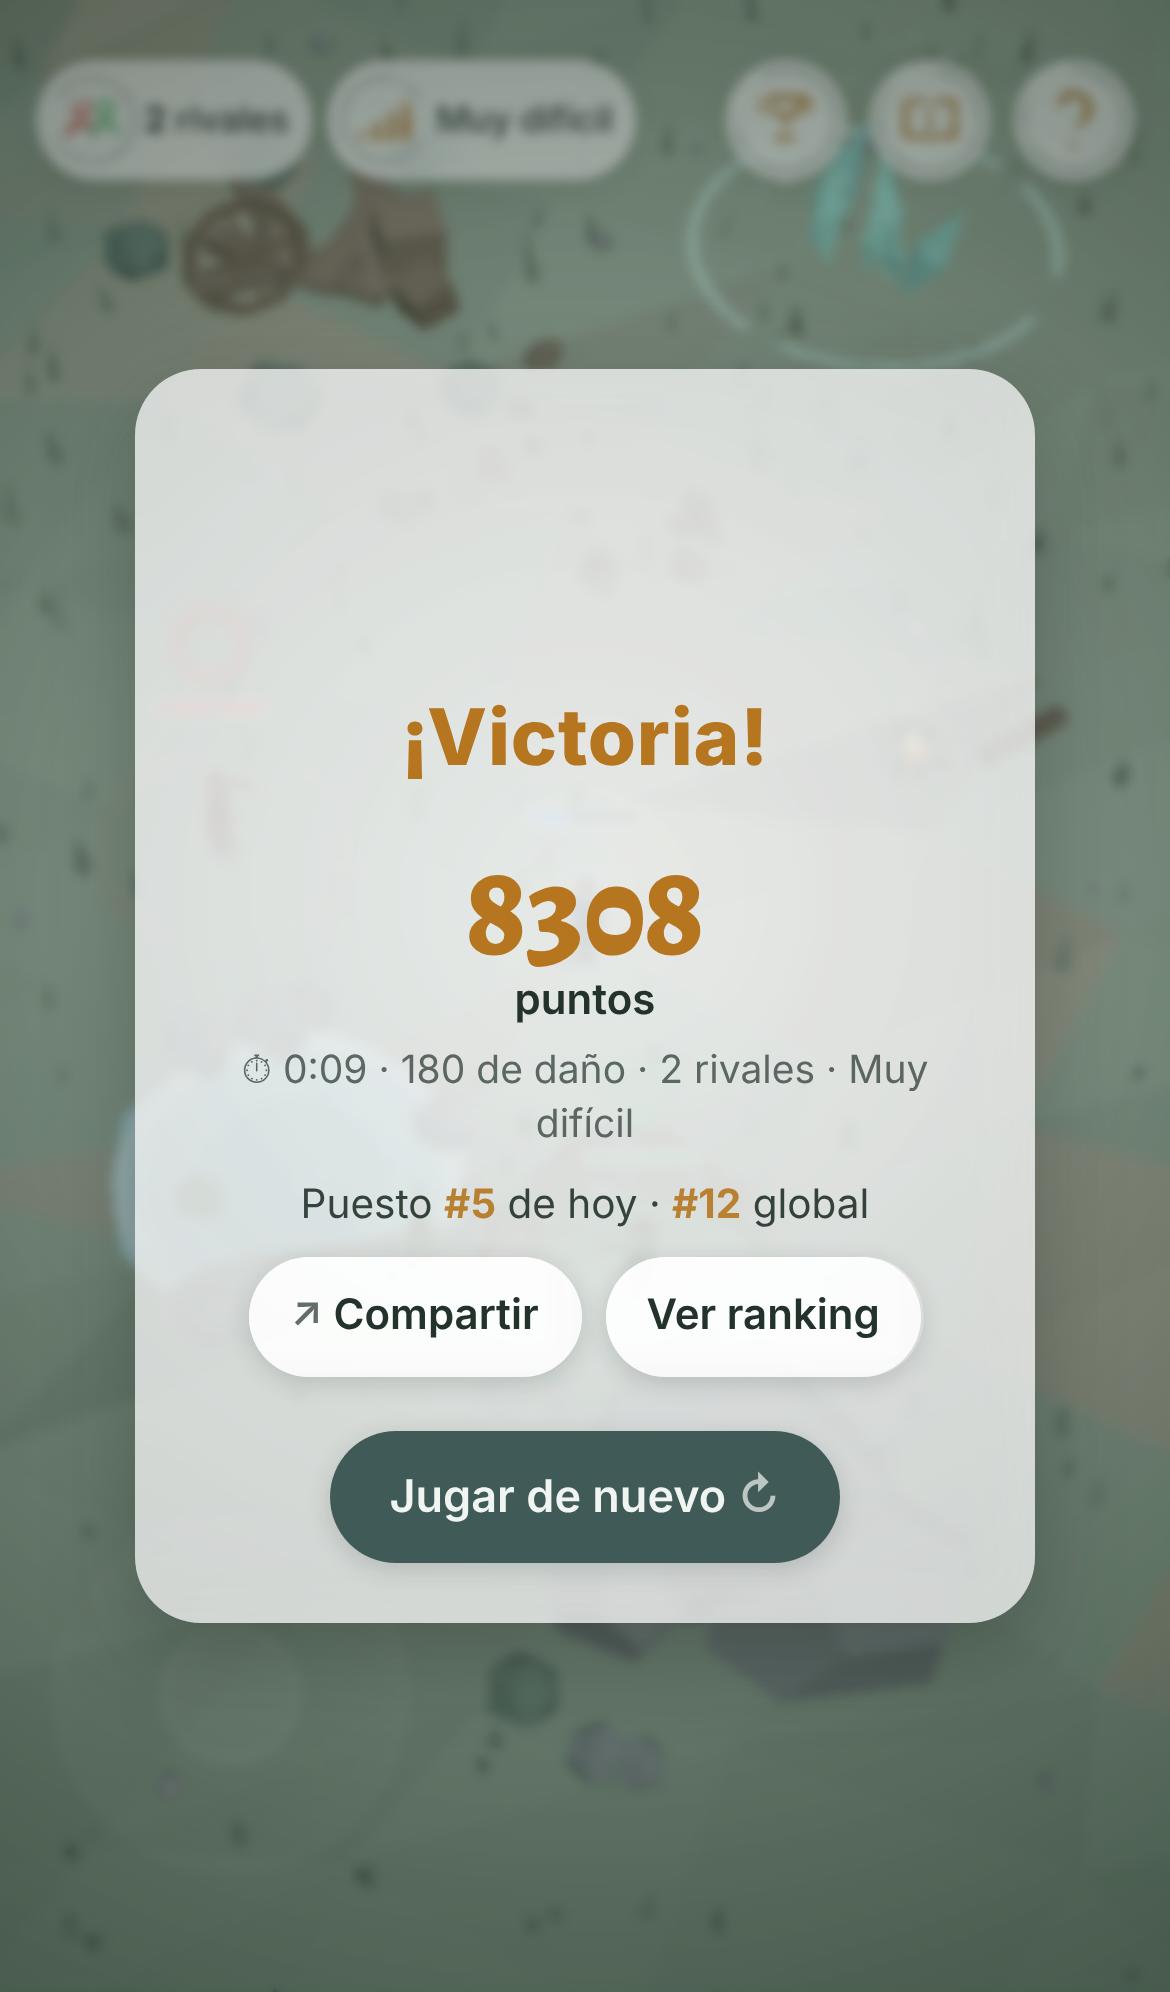
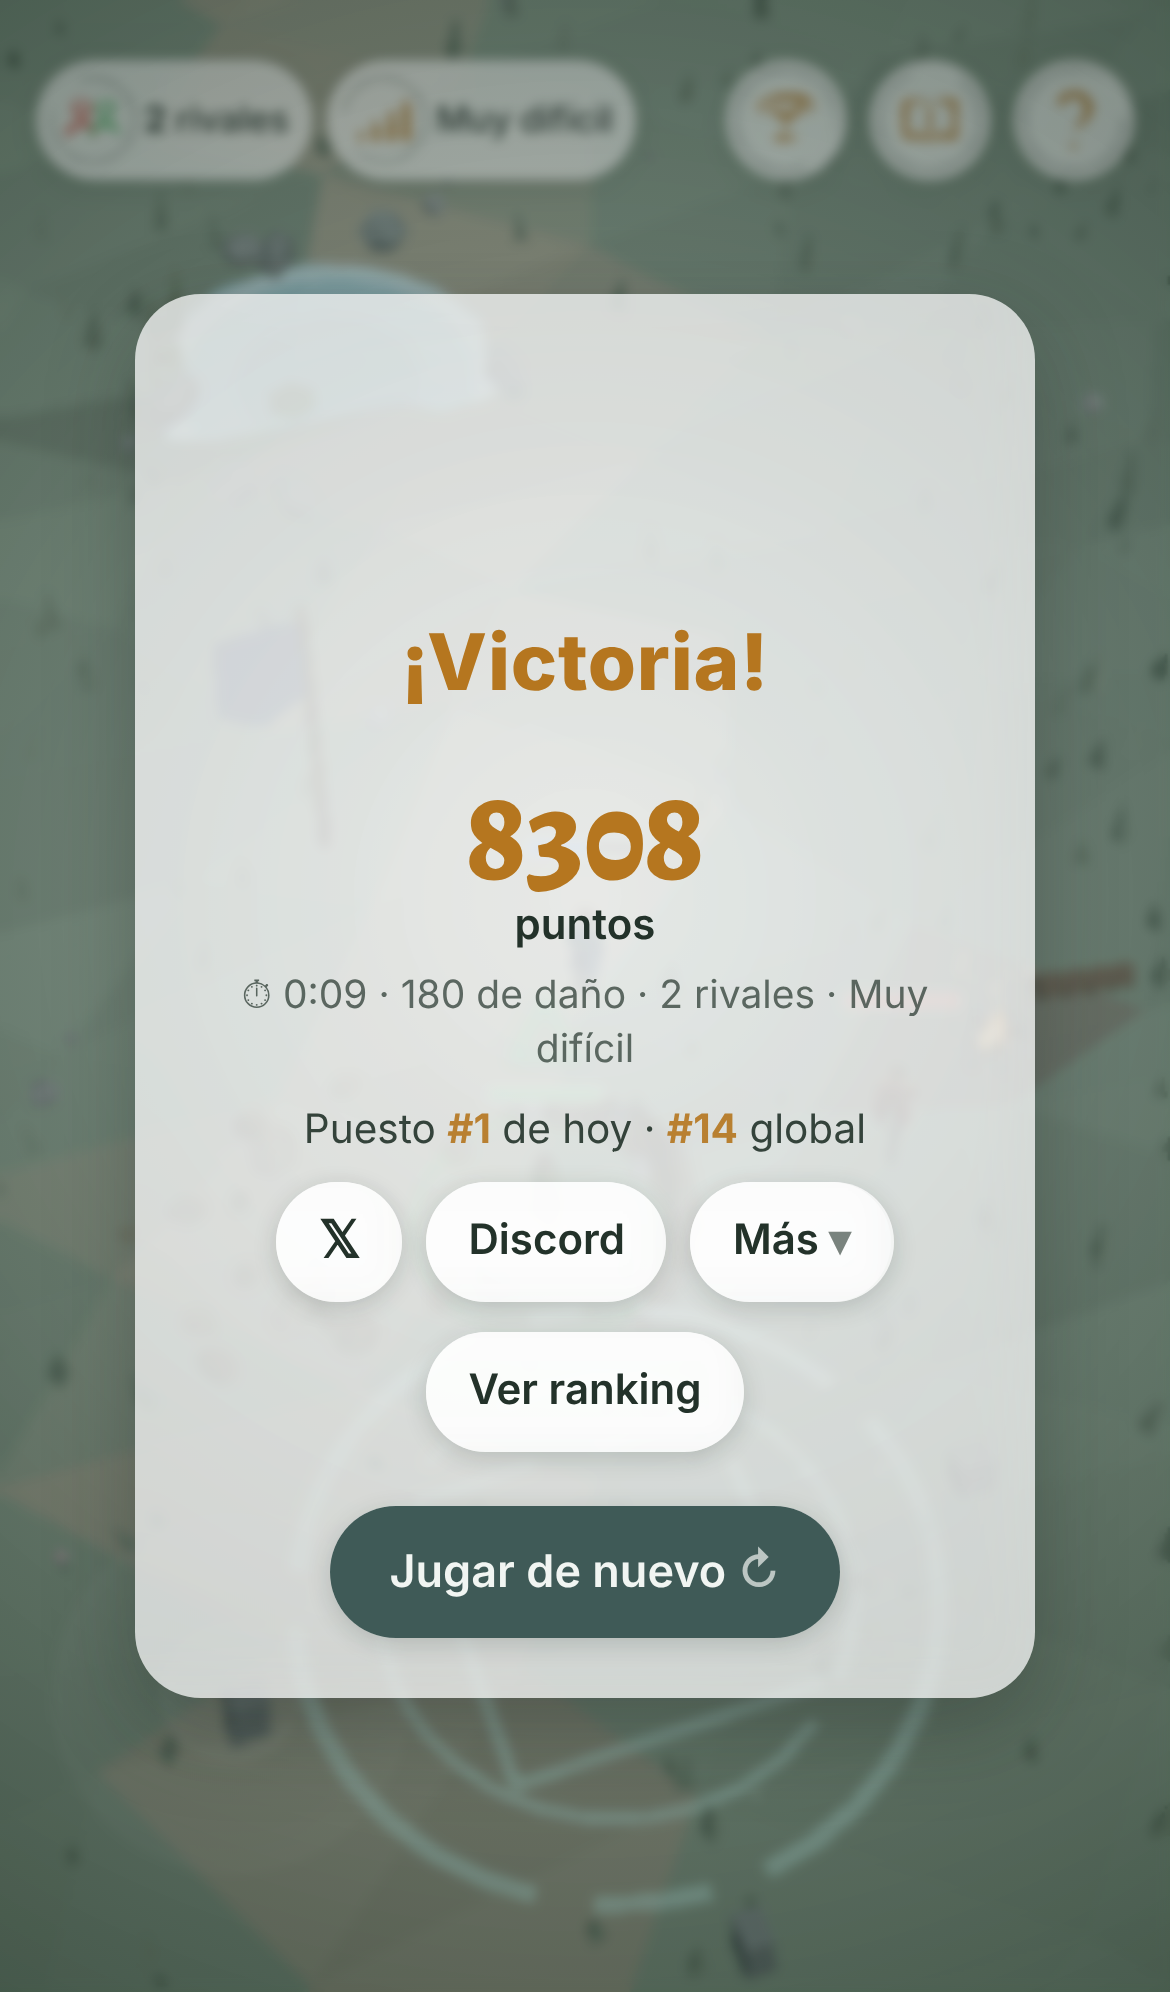
Share to X and Discord, with Bluesky, Threads and Mastodon under More
X, Bluesky, Threads and Mastodon open their compose page with the score text and link (Mastodon
asks for the player's server once and remembers it). Discord has no compose link, so it gets the
image: the share sheet on touch screens, the clipboard elsewhere, a download as a last resort.
More also has Save image.

Claude-Session: https://claude.ai/code/session_01WWzoGYPLa6yAXfs7maHJP8

diff --git a/src/leaderboard/ui.ts b/src/leaderboard/ui.ts
@@ -7,7 +7,7 @@ import { DIFFICULTY_LABEL, type Difficulty } from '../combat';
 import { LANG, t } from '../i18n';
 import { arc, random, segment, svg } from '../match';
 import { failed, fetchBoard, myScores, savedInitials, saveInitials, submitScore, type Entry, type Period, type Runs } from './client';
-import { renderShareCard, shareCard, type ShareData } from './share';
+import { mastodonHost, openComposer, renderShareCard, saveImage, savedMastodon, shareDiscord, type ShareData } from './share';
 import { cleanInitials, formatTime, scoreFor, validInitials } from './score';
 
 const esc = (s: string) => s.replace(/[&<>"']/g, (c) => `&#${c.charCodeAt(0)};`);
@@ -156,13 +156,29 @@ export function mountLeaderboard(): Leaderboard {
       `<input name="initials" maxlength="4" autocomplete="off" autocapitalize="characters" spellcheck="false" enterkeyhint="done" placeholder="ABCD" required></label>` +
       `<button type="submit" class="match-btn save"><span class="cap">${t.rank.save}</span></button></form>` +
       `<p class="note" role="status"></p>` +
-      `<div class="acts"><button type="button" class="match-btn share"><span class="cap">${t.rank.share}</span></button>` +
-      `<button type="button" class="match-btn view"><span class="cap">${t.rank.view}</span></button></div>`;
+      `<div class="acts" role="group" aria-label="${t.rank.share}">` +
+      `<button type="button" class="match-btn net" data-to="x"><span class="cap">𝕏</span></button>` +
+      `<button type="button" class="match-btn net" data-to="discord"><span class="cap">Discord</span></button>` +
+      `<button type="button" class="match-btn more" aria-expanded="false"><span class="cap">${t.rank.more}</span></button></div>` +
+      `<div class="more-menu" hidden>` +
+      `<button type="button" class="match-btn net" data-to="bluesky"><span class="cap">Bluesky</span></button>` +
+      `<button type="button" class="match-btn net" data-to="threads"><span class="cap">Threads</span></button>` +
+      `<button type="button" class="match-btn net" data-to="mastodon"><span class="cap">Mastodon</span></button>` +
+      `<button type="button" class="match-btn net" data-to="image"><span class="cap">${t.rank.saveImage}</span></button>` +
+      `<form class="masto" hidden novalidate><input name="host" autocomplete="off" autocapitalize="none" spellcheck="false" inputmode="url" enterkeyhint="go" placeholder="${t.rank.mastodonHost}" aria-label="${t.rank.mastodonHost}">` +
+      `<button type="submit" class="match-btn"><span class="cap">${t.rank.go}</span></button></form></div>` +
+      `<button type="button" class="match-btn view"><span class="cap">${t.rank.view}</span></button>`;
     const form = slot.querySelector<HTMLFormElement>('.sign')!;
     const input = form.querySelector<HTMLInputElement>('input')!;
     const save = form.querySelector<HTMLButtonElement>('.save')!;
     const note = slot.querySelector<HTMLElement>('.note')!;
-    const shareBtn = slot.querySelector<HTMLButtonElement>('.share')!;
+    const say = (text: string) => {
+      note.innerHTML = text;
+    };
+    const moreBtn = slot.querySelector<HTMLButtonElement>('.more')!;
+    const menu = slot.querySelector<HTMLElement>('.more-menu')!;
+    const masto = slot.querySelector<HTMLFormElement>('.masto')!;
+    const mastoInput = masto.querySelector<HTMLInputElement>('input')!;
     let newId: number | null = null;
     input.value = savedInitials();
     input.addEventListener('input', () => {
@@ -170,17 +186,40 @@ export function mountLeaderboard(): Leaderboard {
       if (clean !== input.value) input.value = clean;
     });
 
-    // Rendered ahead, so the share sheet opens straight from the tap (iOS wants it inside the gesture).
+    // Rendered ahead, so Discord's share sheet opens straight from the tap (iOS wants it inside the gesture).
     let card = renderShareCard(data);
-    shareBtn.addEventListener('click', async () => {
-      const result = await shareCard(await card, data);
-      if (result === 'saved') note.textContent = t.rank.saved;
+    moreBtn.addEventListener('click', () => {
+      menu.hidden = !menu.hidden;
+      moreBtn.setAttribute('aria-expanded', String(!menu.hidden));
     });
-    slot.querySelector('.view')!.addEventListener('click', () => show(newId ? 'today' : period, newId));
-
-    const say = (text: string) => {
-      note.innerHTML = text;
+    const mastodon = (raw: string) => {
+      const host = mastodonHost(raw);
+      if (!host) {
+        masto.hidden = false;
+        mastoInput.focus();
+        return;
+      }
+      masto.hidden = true;
+      openComposer('mastodon', data, host);
     };
+    masto.addEventListener('submit', (e) => {
+      e.preventDefault();
+      mastodon(mastoInput.value);
+    });
+    for (const btn of slot.querySelectorAll<HTMLButtonElement>('.net')) {
+      btn.addEventListener('click', async () => {
+        const to = btn.dataset.to;
+        if (to === 'x' || to === 'bluesky' || to === 'threads') openComposer(to, data);
+        else if (to === 'mastodon') mastodon(savedMastodon());
+        else if (to === 'image') await saveImage(card, data);
+        else if (to === 'discord') {
+          const result = await shareDiscord(card, data);
+          if (result === 'copied') say(t.rank.discordCopied);
+          if (result === 'saved') say(t.rank.discordSaved);
+        }
+      });
+    }
+    slot.querySelector('.view')!.addEventListener('click', () => show(newId ? 'today' : period, newId));
 
     void runs.current().then((id) => {
       if (!id && slot.isConnected) {
@@ -216,7 +255,7 @@ export function mountLeaderboard(): Leaderboard {
       say(t.rank.placed(res.rank.today, res.rank.all));
       Object.assign(data, { score: res.score, initials, rank: res.rank });
       card = renderShareCard(data);
-      shareBtn.focus({ preventScroll: true });
+      slot.querySelector<HTMLElement>('.net')!.focus({ preventScroll: true });
     });
   };
 

diff --git a/src/leaderboard/share.ts b/src/leaderboard/share.ts
@@ -132,30 +132,91 @@ export function shareText(d: ShareData) {
   return t.rank.shareText(d.score.toLocaleString(LANG), formatTime(d.durationMs), d.rivals, DIFFICULTY_LABEL[d.difficulty], shareUrl());
 }
 
-/** Shares the card; falls back to downloading it and copying the text. */
-export async function shareCard(blob: Blob, d: ShareData): Promise<'shared' | 'saved' | 'cancelled'> {
-  const text = shareText(d);
-  const file = new File([blob], `cirquimia-${d.score}.png`, { type: 'image/png' });
-  if (navigator.canShare?.({ files: [file] })) {
-    try {
-      await navigator.share({ files: [file], text, title: 'Cirquimia' });
-      return 'shared';
-    } catch (e) {
-      if ((e as DOMException)?.name === 'AbortError') return 'cancelled';
-      // Some browsers claim they can share files and then refuse: save it instead.
-    }
+export type Target = 'x' | 'discord' | 'bluesky' | 'threads' | 'mastodon' | 'image';
+
+const MASTODON_STORE = 'cirquimia.mastodon';
+
+/** The Mastodon server the player gave last time, if any. */
+export function savedMastodon(): string {
+  try {
+    return localStorage.getItem(MASTODON_STORE) ?? '';
+  } catch {
+    return '';
   }
+}
+
+/** "@me@mastodon.social", "https://mastodon.social/" or "mastodon.social" → "mastodon.social"; null when it is not a host. */
+export function mastodonHost(raw: string): string | null {
+  const host = raw.trim().replace(/^https?:\/\//i, '').replace(/^@?[^@\s]*@/, '').split(/[/?#\s]/)[0].toLowerCase();
+  return /^[a-z0-9-]+(\.[a-z0-9-]+)+$/.test(host) ? host : null;
+}
+
+const enc = encodeURIComponent;
+
+/** Where each network takes a prepared post. Discord has no such page: it gets the image instead. */
+export function composeUrl(target: 'x' | 'bluesky' | 'threads' | 'mastodon', text: string, host = 'mastodon.social') {
+  switch (target) {
+    case 'x':
+      return `https://x.com/intent/post?text=${enc(text)}`;
+    case 'bluesky':
+      return `https://bsky.app/intent/compose?text=${enc(text)}`;
+    case 'threads':
+      return `https://www.threads.net/intent/post?text=${enc(text)}`;
+    case 'mastodon':
+      return `https://${host}/share?text=${enc(text)}`;
+  }
+}
+
+function download(blob: Blob, name: string) {
   const link = document.createElement('a');
   link.href = URL.createObjectURL(blob);
-  link.download = file.name;
+  link.download = name;
   document.body.append(link);
   link.click();
   link.remove();
   setTimeout(() => URL.revokeObjectURL(link.href), 10_000);
-  try {
-    await navigator.clipboard?.writeText(text);
-  } catch {
-    // No clipboard: the image is still saved.
+}
+
+/**
+ * Opens a network's composer with the text and link. Called straight from the tap so the new tab is not blocked;
+ * the networks' compose pages take text only, so the image goes to Discord and "Save image".
+ */
+export function openComposer(target: 'x' | 'bluesky' | 'threads' | 'mastodon', d: ShareData, host?: string) {
+  if (target === 'mastodon' && host) {
+    try {
+      localStorage.setItem(MASTODON_STORE, host);
+    } catch {
+      // Asked again next time.
+    }
   }
-  return 'saved';
+  window.open(composeUrl(target, shareText(d), host), '_blank', 'noopener');
+}
+
+/**
+ * Discord: phones open the share sheet with the image (Discord is in it); elsewhere the image is copied
+ * to paste into a channel, or saved if the browser cannot copy images.
+ */
+export async function shareDiscord(card: Promise<Blob>, d: ShareData): Promise<'shared' | 'copied' | 'saved' | 'cancelled'> {
+  const blob = await card;
+  const file = new File([blob], `cirquimia-${d.score}.png`, { type: 'image/png' });
+  const touch = matchMedia('(pointer: coarse)').matches;
+  if (touch && navigator.canShare?.({ files: [file] })) {
+    try {
+      await navigator.share({ files: [file], text: shareText(d) });
+      return 'shared';
+    } catch (e) {
+      if ((e as DOMException)?.name === 'AbortError') return 'cancelled';
+    }
+  }
+  try {
+    await navigator.clipboard.write([new ClipboardItem({ 'image/png': blob })]);
+    return 'copied';
+  } catch {
+    download(blob, file.name);
+    return 'saved';
+  }
+}
+
+export async function saveImage(card: Promise<Blob>, d: ShareData) {
+  download(await card, `cirquimia-${d.score}.png`);
 }

diff --git a/index.html b/index.html
@@ -164,7 +164,17 @@
       #match-end .note:empty { display: none; }
       #match-end .note b { color: #b5761f; }
       #match-end .acts { display: flex; gap: 8px; flex-wrap: wrap; justify-content: center; }
-      #match-end .share .cap::before { content: "↗ "; opacity: .7; }
+      #match-end .acts .net, #match-end .acts .more { min-width: 0; padding: 0 14px; }
+      #match-end .acts [data-to="x"] .cap { font-size: 17px; }
+      #match-end .more .cap::after { content: " ▾"; opacity: .6; }
+      #match-end .more[aria-expanded="true"] .cap::after { content: " ▴"; }
+      #match-end .more-menu { display: flex; flex-wrap: wrap; justify-content: center; gap: 6px; padding: 8px; border-radius: 16px; background: rgba(127,140,134,.12); }
+      #match-end .more-menu[hidden] { display: none; }
+      #match-end .scored .more-menu .match-btn { height: 34px; padding: 0 12px; font-size: 13px; }
+      #match-end .masto { display: flex; gap: 6px; width: 100%; }
+      #match-end .masto[hidden] { display: none; }
+      #match-end .masto input { flex: 1; min-width: 0; height: 34px; box-sizing: border-box; padding: 0 10px; border: 1.5px solid var(--hud-border); border-radius: 10px; background: var(--hud-solid); color: var(--hud-fg); font: 500 13px/1 system-ui, -apple-system, sans-serif; }
+      #match-end .view { margin-top: 2px; }
       #rank { position: fixed; inset: 0; z-index: 8; display: grid; place-items: center; padding: max(16px, env(safe-area-inset-top)) max(16px, env(safe-area-inset-right)) max(16px, env(safe-area-inset-bottom)) max(16px, env(safe-area-inset-left)); background: radial-gradient(circle at 50% 45%, rgba(201,211,209,.35), rgba(35,50,42,.6)); backdrop-filter: blur(2px) saturate(.8); -webkit-backdrop-filter: blur(2px) saturate(.8); opacity: 0; transition: opacity .3s; }
       #rank[hidden] { display: none; }
       #rank.show { opacity: 1; }

diff --git a/tests/leaderboard.test.ts b/tests/leaderboard.test.ts
@@ -1,6 +1,7 @@
 import { describe, expect, it } from 'vitest';
 import { cleanInitials, formatTime, plausible, scoreFor, validInitials } from '../src/leaderboard/score';
 import { classifyDevice } from '../src/leaderboard/device';
+import { composeUrl, mastodonHost } from '../src/leaderboard/share';
 
 describe('score', () => {
   it('scores the damage the alchemist dealt, by difficulty and speed', () => {
@@ -55,5 +56,22 @@ describe('device', () => {
     expect(classifyDevice(PIXEL)).toMatchObject({ category: 'mobile', device: 'android-phone', browser: 'chrome' });
     expect(classifyDevice(TAB)).toMatchObject({ category: 'tablet', device: 'android-tablet' });
     expect(classifyDevice(WIN)).toMatchObject({ category: 'desktop', device: 'windows-pc', browser: 'edge' });
+  });
+});
+
+describe('share', () => {
+  it('reads a Mastodon server from what people type', () => {
+    expect(mastodonHost('mastodon.social')).toBe('mastodon.social');
+    expect(mastodonHost('https://Fosstodon.org/home')).toBe('fosstodon.org');
+    expect(mastodonHost('@guille@hachyderm.io')).toBe('hachyderm.io');
+    expect(mastodonHost('not a server')).toBeNull();
+    expect(mastodonHost('')).toBeNull();
+  });
+
+  it('builds each network compose link with the text', () => {
+    expect(composeUrl('x', 'hola & adiós')).toBe('https://x.com/intent/post?text=hola%20%26%20adi%C3%B3s');
+    expect(composeUrl('bluesky', 'a')).toBe('https://bsky.app/intent/compose?text=a');
+    expect(composeUrl('threads', 'a')).toBe('https://www.threads.net/intent/post?text=a');
+    expect(composeUrl('mastodon', 'a', 'mas.to')).toBe('https://mas.to/share?text=a');
   });
 });

diff --git a/src/i18n/index.ts b/src/i18n/index.ts
@@ -98,7 +98,12 @@ const es = {
     save: 'Guardar',
     saving: 'Guardando…',
     share: 'Compartir',
-    saved: 'Imagen guardada y texto copiado',
+    more: 'Más',
+    saveImage: 'Guardar imagen',
+    discordCopied: 'Imagen copiada: pégala en Discord.',
+    discordSaved: 'Imagen guardada: súbela a Discord.',
+    mastodonHost: 'Tu servidor (ej. mastodon.social)',
+    go: 'Ir',
     view: 'Ver ranking',
     unavailable: 'El ranking no está disponible ahora.',
     tooMany: 'Demasiados envíos seguidos. Prueba en unos minutos.',
@@ -320,7 +325,12 @@ const en: Strings = {
     save: 'Save',
     saving: 'Saving…',
     share: 'Share',
-    saved: 'Image saved, text copied',
+    more: 'More',
+    saveImage: 'Save image',
+    discordCopied: 'Image copied: paste it in Discord.',
+    discordSaved: 'Image saved: upload it to Discord.',
+    mastodonHost: 'Your server (e.g. mastodon.social)',
+    go: 'Go',
     view: 'See leaderboard',
     unavailable: 'The leaderboard is unavailable right now.',
     tooMany: 'Too many submissions in a row. Try again in a few minutes.',
